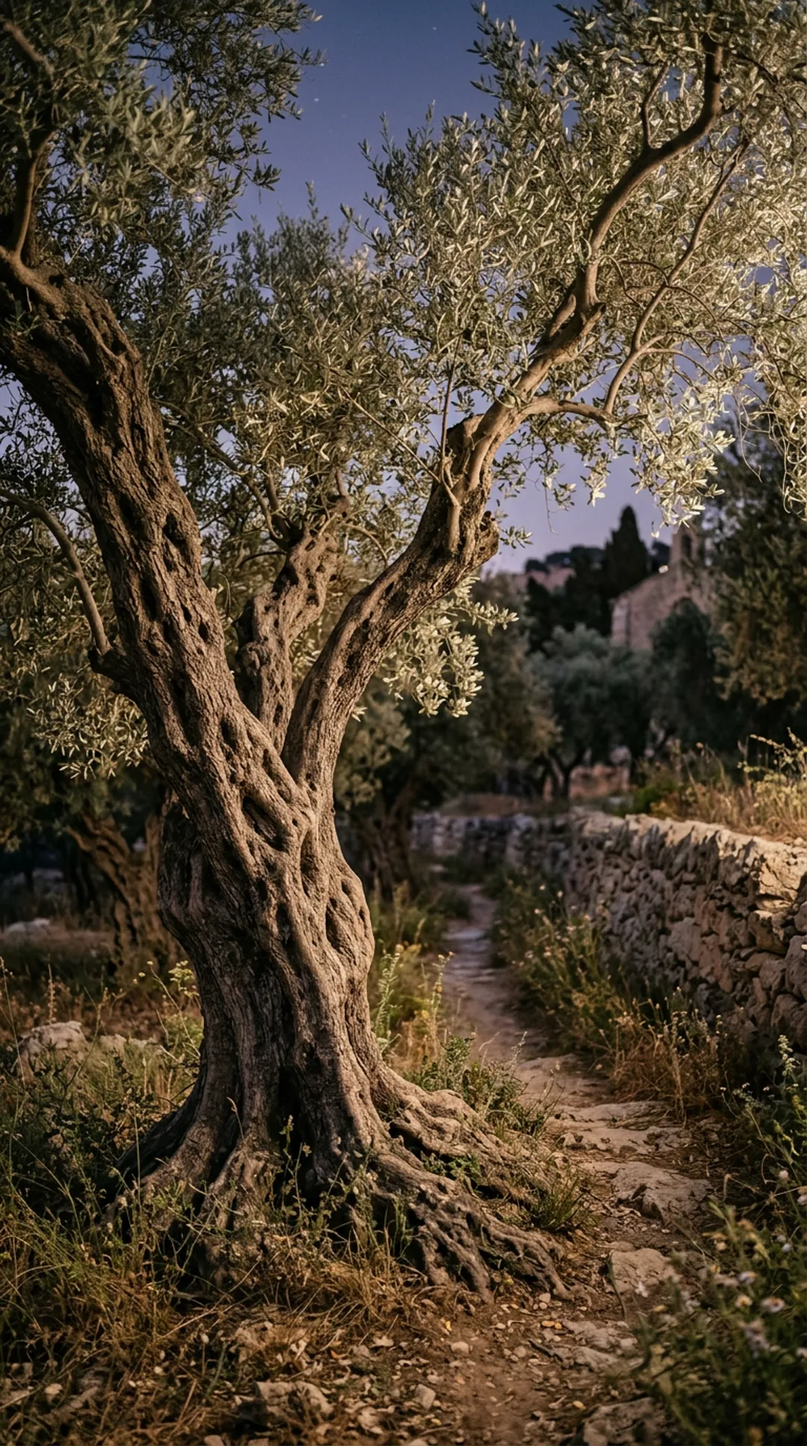
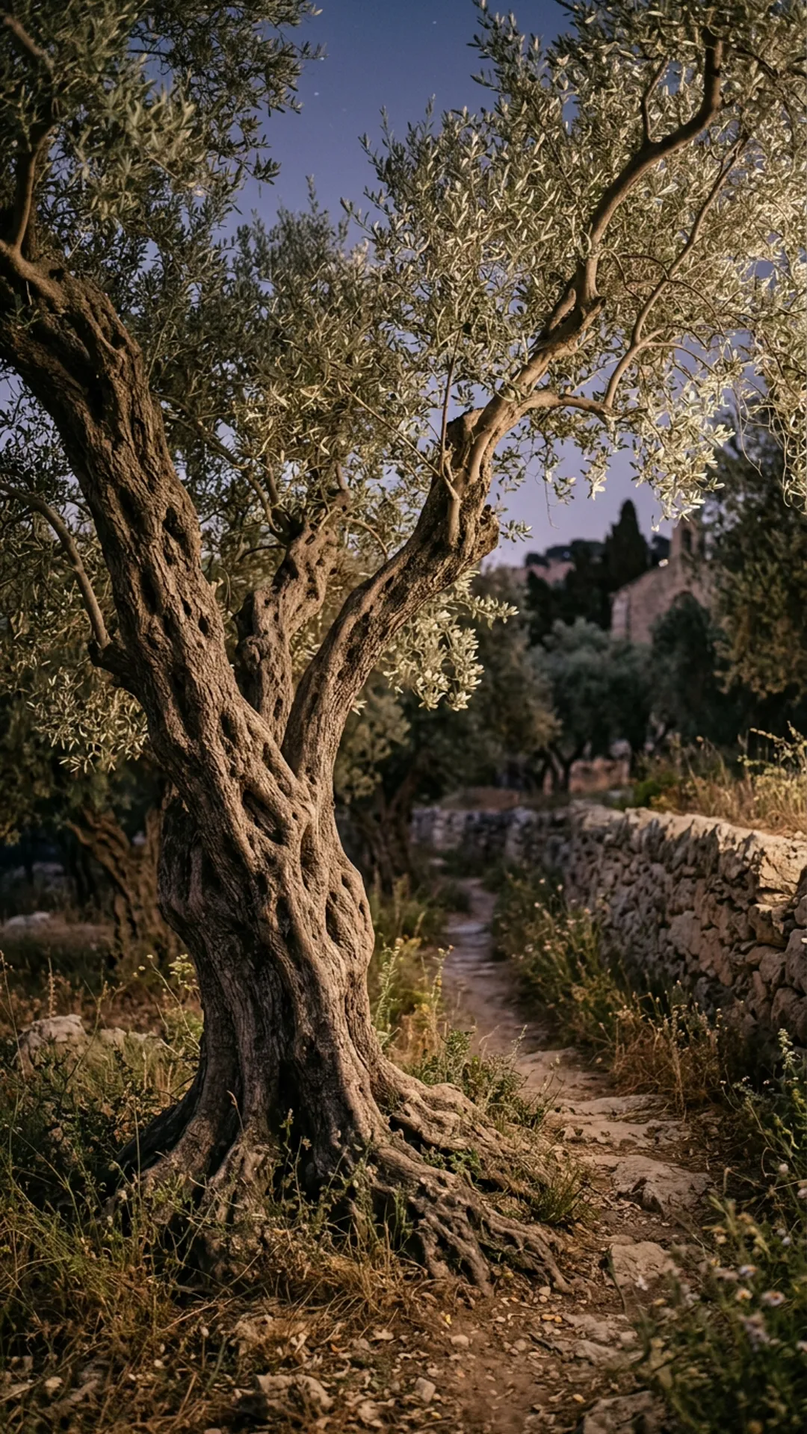
refactor(share): unify all backgrounds to exact 1080x1920 9:16 aspect ratio with centered focal zone

diff --git a/src/features/share/data/cardBackgrounds.ts b/src/features/share/data/cardBackgrounds.ts
@@ -1,12 +1,12 @@
 import { ImageSourcePropType } from 'react-native';
 
-export type BackgroundCategory = 'all' | 'real' | 'spiritual' | 'minimal';
+export type BackgroundCategory = 'all' | 'spiritual' | 'minimal';
 
 export interface CardBackground {
   id: string;
   name: string;
   subtitle: string;
-  category: 'real' | 'spiritual' | 'minimal';
+  category: 'spiritual' | 'minimal';
   type: 'image' | 'solid';
   source?: ImageSourcePropType;
   overlayOpacity?: number;
@@ -17,89 +17,42 @@ export interface CardBackground {
 }
 
 export const CARD_BACKGROUNDS: CardBackground[] = [
-  // --- FOTOGRAFÍA REAL PROFESIONAL ---
-  {
-    id: 'real_open_bible',
-    name: 'Palabra Viva',
-    subtitle: 'Biblia en madera con luz natural',
-    category: 'real',
-    type: 'image',
-    source: require('@/assets/backgrounds/real_open_bible.webp'),
-    overlayOpacity: 0.50,
-  },
-  {
-    id: 'real_sunrise_ocean',
-    name: 'Amanecer en el Mar',
-    subtitle: 'Océano dorado y horizonte sereno',
-    category: 'real',
-    type: 'image',
-    source: require('@/assets/backgrounds/real_sunrise_ocean.webp'),
-    overlayOpacity: 0.48,
-  },
-  {
-    id: 'real_mountain_peaks',
-    name: 'Cumbres de Paz',
-    subtitle: 'Montañas majestuosas y niebla',
-    category: 'real',
-    type: 'image',
-    source: require('@/assets/backgrounds/real_mountain_peaks.webp'),
-    overlayOpacity: 0.50,
-  },
-  {
-    id: 'real_forest_sunlight',
-    name: 'Luz en el Bosque',
-    subtitle: 'Rayos solares entre árboles',
-    category: 'real',
-    type: 'image',
-    source: require('@/assets/backgrounds/real_forest_sunlight.webp'),
-    overlayOpacity: 0.52,
-  },
-  {
-    id: 'real_desert_stars',
-    name: 'Noche en el Desierto',
-    subtitle: 'Bóveda celeste y estrellas',
-    category: 'real',
-    type: 'image',
-    source: require('@/assets/backgrounds/real_desert_stars.webp'),
-    overlayOpacity: 0.40,
-  },
-
-  // --- PAISAJES BÍBLICOS Y NATURALEZA SAGRADA ---
+  // --- FOTOGRAFÍA SAGRADA UNIFICADA 9:16 (1080 x 1920) ---
   {
     id: 'bg_bible_dawn',
     name: 'Amanecer Bíblico',
-    subtitle: 'Escrituras iluminadas al alba',
+    subtitle: 'Escrituras iluminadas al alba sobre madera',
     category: 'spiritual',
     type: 'image',
     source: require('@/assets/backgrounds/bg_bible_dawn.webp'),
-    overlayOpacity: 0.50,
+    overlayOpacity: 0.35,
   },
   {
     id: 'bg_prayer_candle',
     name: 'Oración Íntima',
-    subtitle: 'Vela cálida y devoción',
+    subtitle: 'Cálida vela de bronce y devoción',
     category: 'spiritual',
     type: 'image',
     source: require('@/assets/backgrounds/bg_prayer_candle.webp'),
-    overlayOpacity: 0.45,
+    overlayOpacity: 0.30,
   },
   {
     id: 'bg_sea_galilee',
     name: 'Mar de Galilea',
-    subtitle: 'Aguas cristalinas en calma',
+    subtitle: 'Aguas cristalinas en calma al alba',
     category: 'spiritual',
     type: 'image',
     source: require('@/assets/backgrounds/bg_sea_galilee.webp'),
-    overlayOpacity: 0.48,
+    overlayOpacity: 0.35,
   },
   {
     id: 'bg_still_waters',
     name: 'Aguas de Reposo',
-    subtitle: 'Salmo 23, arroyo de montaña',
+    subtitle: 'Salmo 23, arroyo de montaña y piedras',
     category: 'spiritual',
     type: 'image',
     source: require('@/assets/backgrounds/bg_still_waters.webp'),
-    overlayOpacity: 0.52,
+    overlayOpacity: 0.38,
   },
   {
     id: 'bg_green_pastures',
@@ -108,7 +61,7 @@ export const CARD_BACKGROUNDS: CardBackground[] = [
     category: 'spiritual',
     type: 'image',
     source: require('@/assets/backgrounds/bg_green_pastures.webp'),
-    overlayOpacity: 0.48,
+    overlayOpacity: 0.35,
   },
   {
     id: 'bg_path_light',
@@ -117,7 +70,7 @@ export const CARD_BACKGROUNDS: CardBackground[] = [
     category: 'spiritual',
     type: 'image',
     source: require('@/assets/backgrounds/bg_path_light.webp'),
-    overlayOpacity: 0.52,
+    overlayOpacity: 0.38,
   },
   {
     id: 'bg_starry_night',
@@ -126,7 +79,7 @@ export const CARD_BACKGROUNDS: CardBackground[] = [
     category: 'spiritual',
     type: 'image',
     source: require('@/assets/backgrounds/bg_starry_night.webp'),
-    overlayOpacity: 0.40,
+    overlayOpacity: 0.28,
   },
   {
     id: 'bg_mount_sinai',
@@ -135,7 +88,7 @@ export const CARD_BACKGROUNDS: CardBackground[] = [
     category: 'spiritual',
     type: 'image',
     source: require('@/assets/backgrounds/bg_mount_sinai.webp'),
-    overlayOpacity: 0.48,
+    overlayOpacity: 0.35,
   },
   {
     id: 'bg_gethsemane_olives',
@@ -144,7 +97,7 @@ export const CARD_BACKGROUNDS: CardBackground[] = [
     category: 'spiritual',
     type: 'image',
     source: require('@/assets/backgrounds/bg_gethsemane_olives.webp'),
-    overlayOpacity: 0.50,
+    overlayOpacity: 0.38,
   },
   {
     id: 'bg_sacred_parchment',
@@ -153,7 +106,7 @@ export const CARD_BACKGROUNDS: CardBackground[] = [
     category: 'spiritual',
     type: 'image',
     source: require('@/assets/backgrounds/bg_sacred_parchment.webp'),
-    overlayOpacity: 0.52,
+    overlayOpacity: 0.38,
   },
 
   // --- ESTILOS CLÁSICOS Y MINIMALISTAS ---

diff --git a/src/features/share/components/ShareCardModal.tsx b/src/features/share/components/ShareCardModal.tsx
@@ -538,9 +538,8 @@ export const ShareCardModal: React.FC<ShareCardModalProps> = ({
           <View style={styles.categoryRow}>
             {(
               [
-                { id: 'all', label: 'Todos (18)' },
-                { id: 'real', label: 'Fotografía (5)' },
-                { id: 'spiritual', label: 'Paisajes Bíblicos (10)' },
+                { id: 'all', label: 'Todos (13)' },
+                { id: 'spiritual', label: 'Paisajes y Fotos (10)' },
                 { id: 'minimal', label: 'Clásicos (3)' },
               ] as { id: BackgroundCategory; label: string }[]
             ).map((cat) => {
